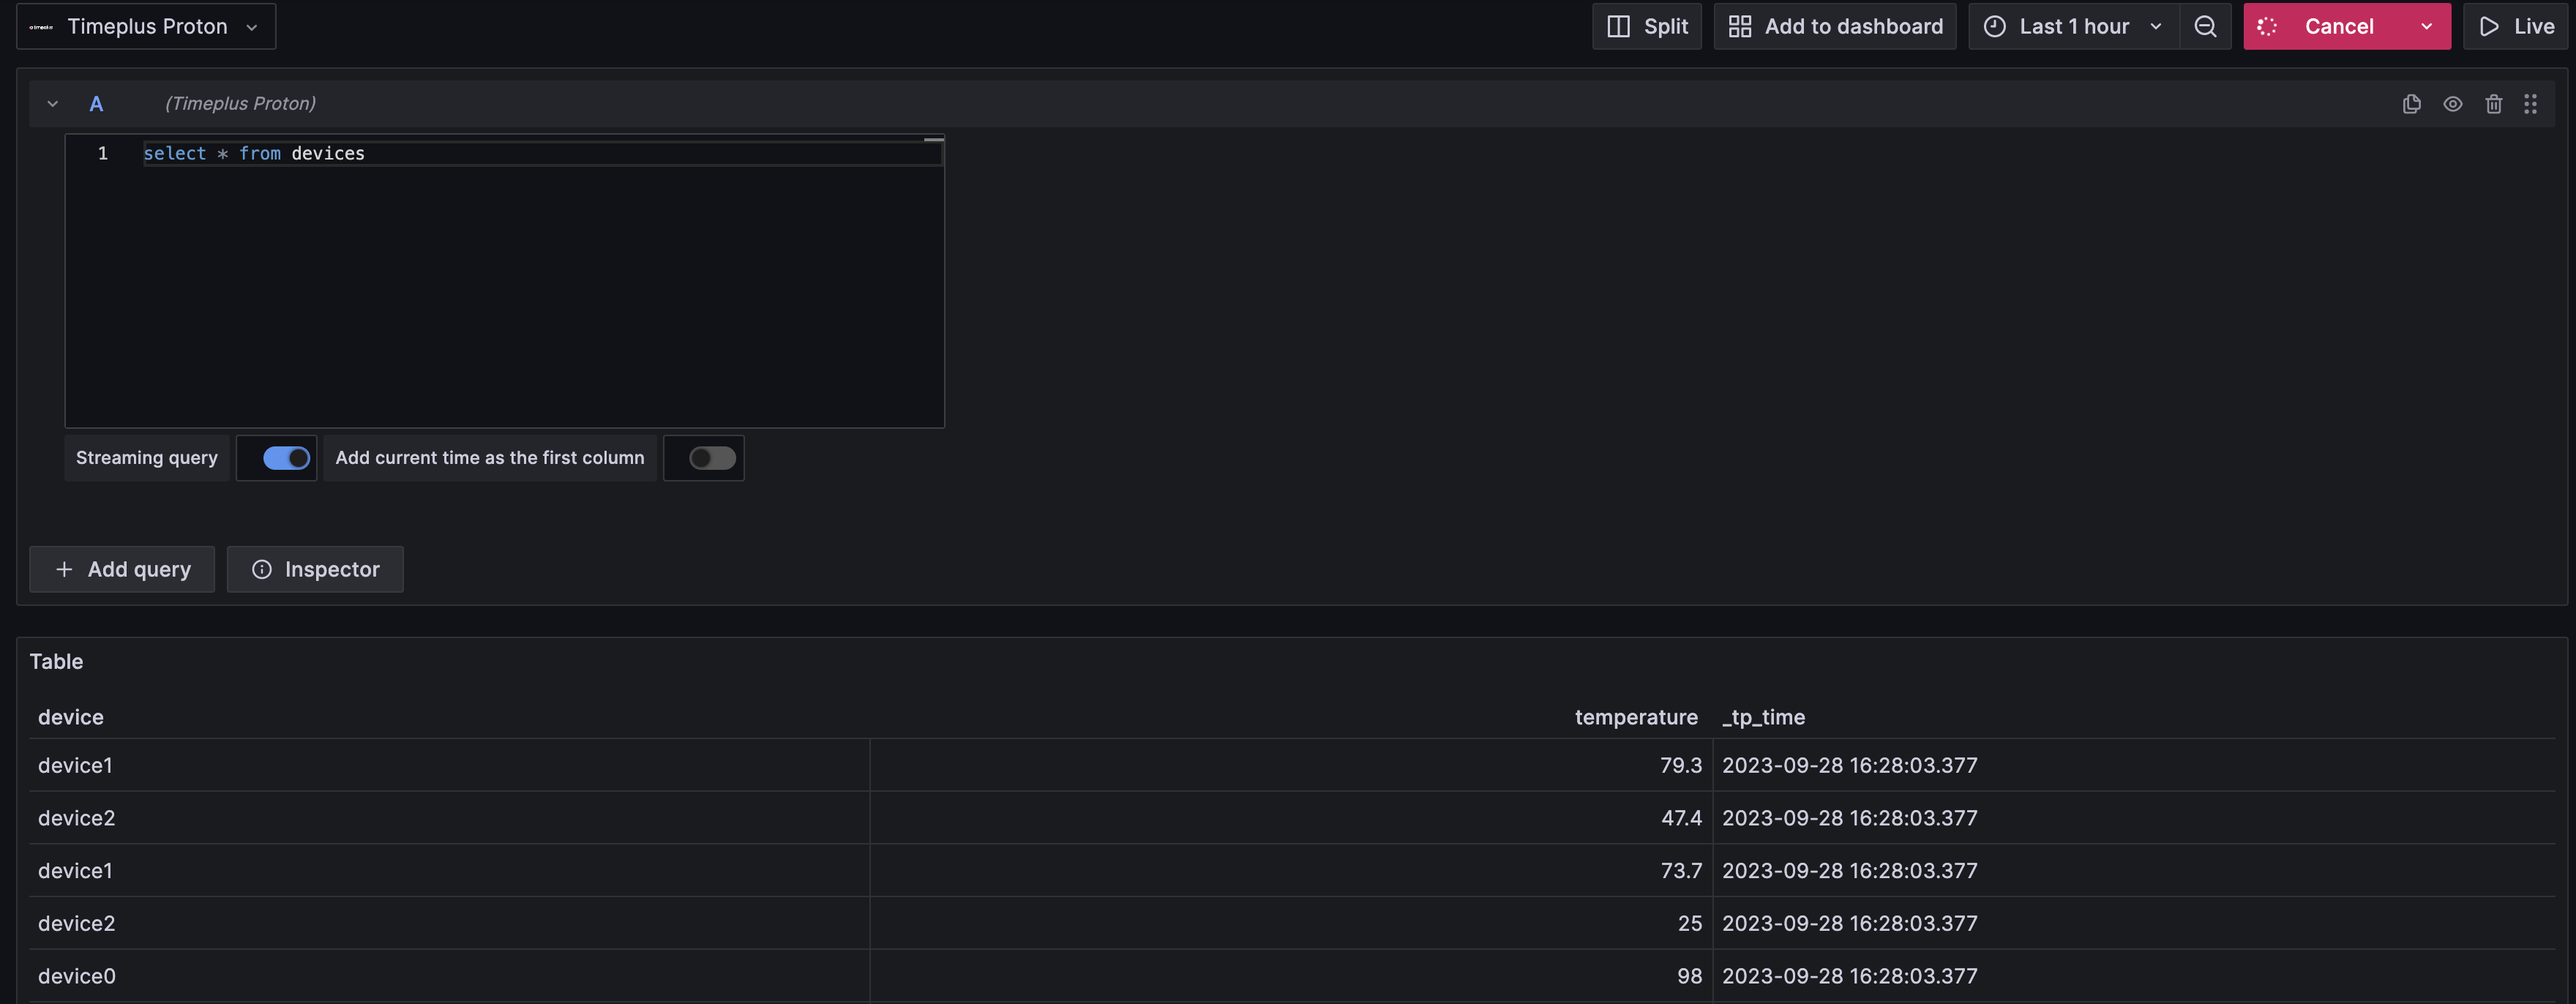
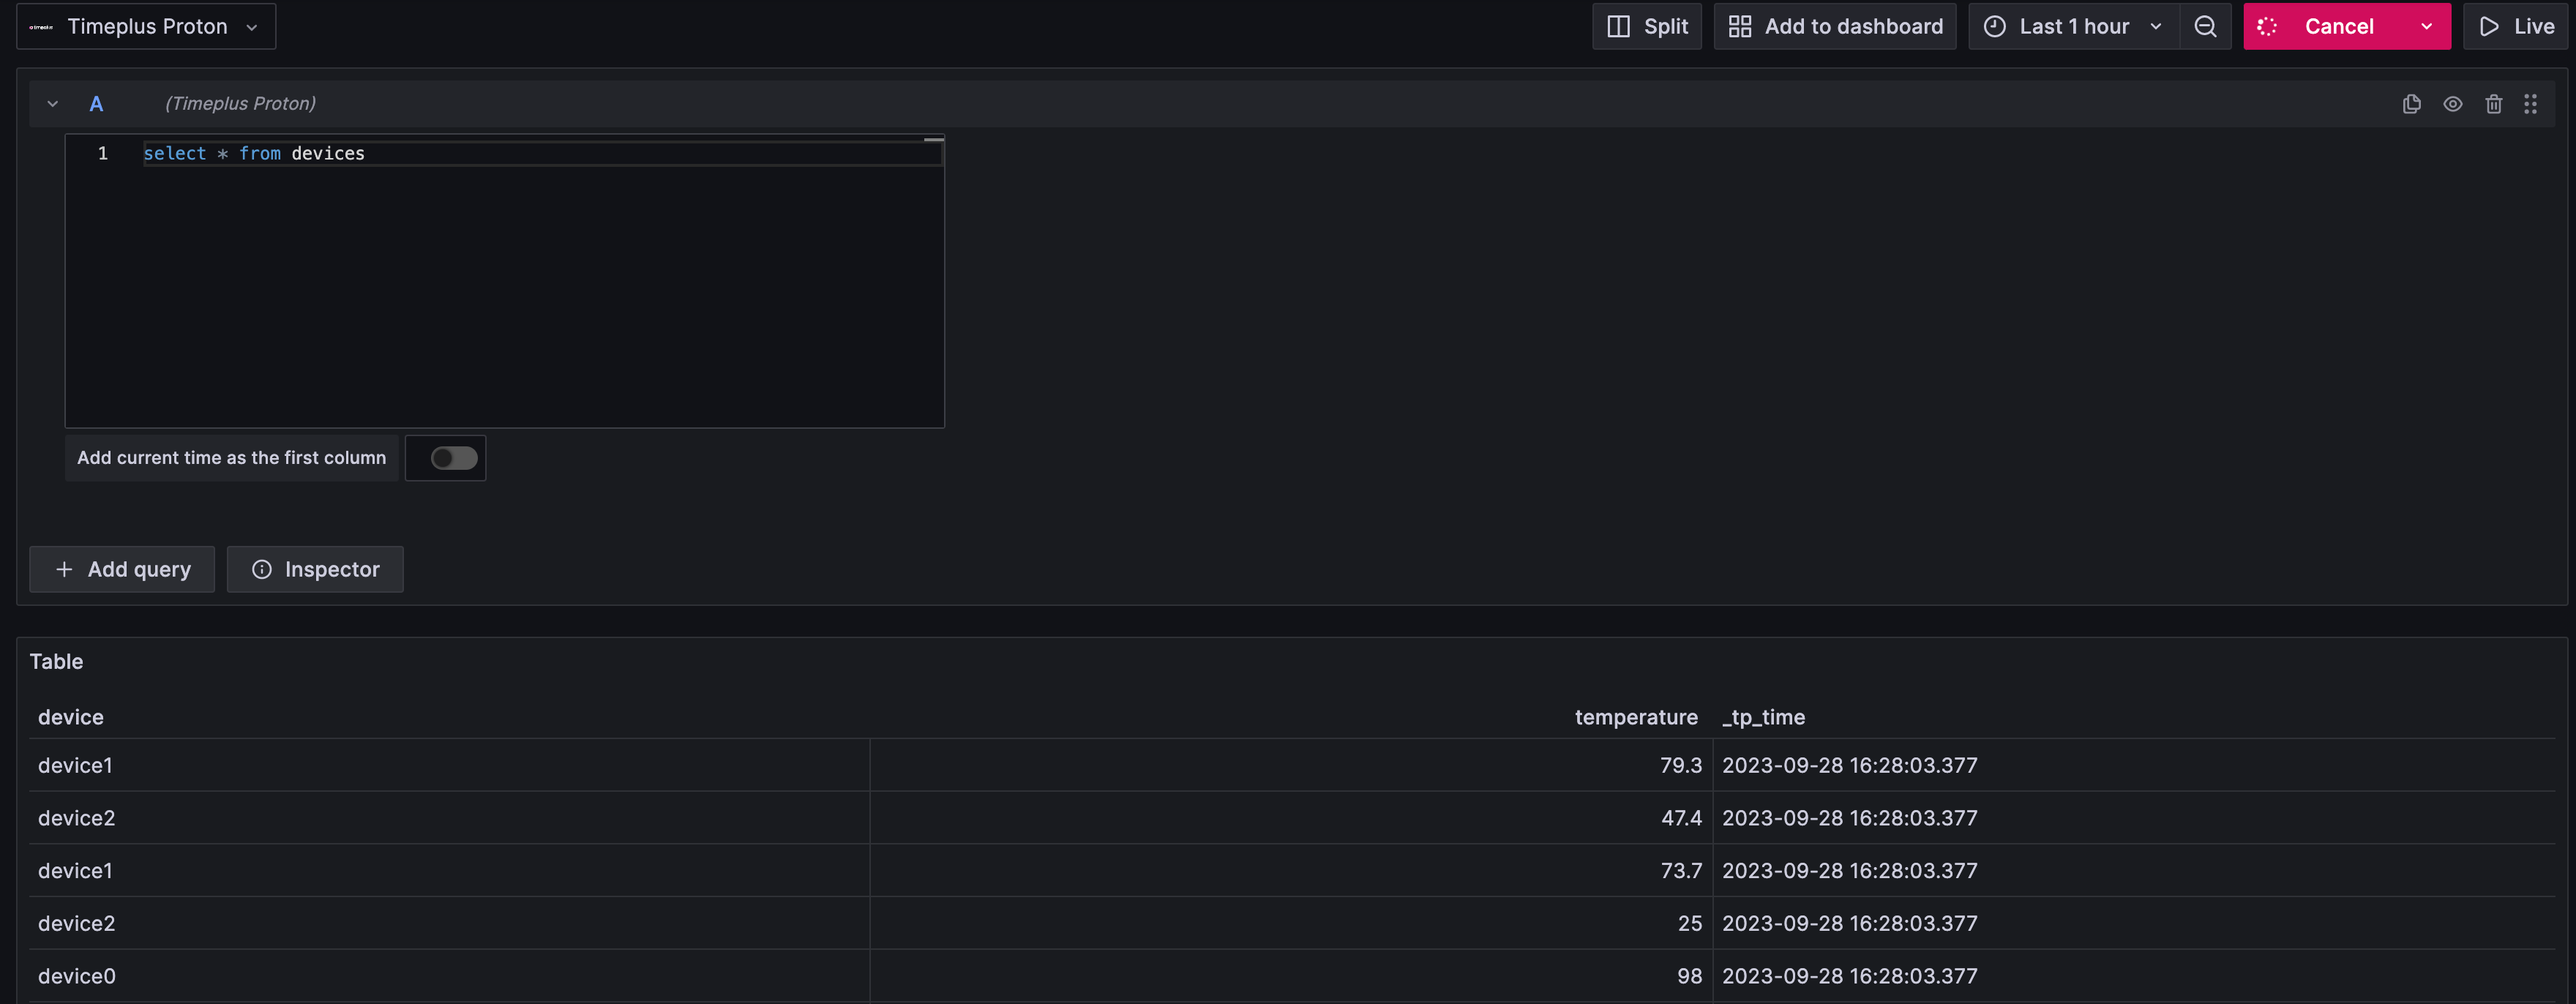
final touch, updates README/docker etc

Changed region(s): [[0.0312, 0.4286, 0.2812, 0.4898], [0.8438, 0.0, 0.9688, 0.0612]]

diff --git a/README.md b/README.md
@@ -16,7 +16,7 @@ https://github.com/timeplus-io/proton
 ### Use the pre-built Docker Compose
 The [docker-compose.yaml](docker-compose.yaml) in this folder ships a Grafana container, with the proton plugin pre-installed, as well as a data generator.
 
-You start it with `docker compose up` and go to http://localhost:3000 to add a new data source for Proton, using `proton` as the hostname.
+You start it with `docker compose up` and go to http://localhost:3000 to add a new data source for Proton, using `proton` as the hostname (because the Grafana container is running in the Docker Compose network. `proton` is the internal hostname for Proton database.)
 Then create a new dashboard by copying the content of [carsharing_grafana_dashboard.json](carsharing_grafana_dashboard.json) in the dashboard JSON model.
 
 ### Use your own Grafana deployment
@@ -25,13 +25,11 @@ Before the plugin is approved by Grafana, you need to set your Grafana running i
 
 In the navigation menu, choose Connections -> Add new connection.
 
-Search for Proton and accept the default settings (localhost:8463 as proton connection)
+Search for Proton and accept the default settings (localhost:8463 as proton connection). This plugin is expected to run in localhost or trusted network. Username and password for Proton will be added later. For Timeplus Cloud, API Key is supported for REST API, but this Grafana plugin doesn't support Timeplus Cloud at this point.
 
 Create a new dashboard or explore data with this Proton data source.
 
-There are unbounded streaming query and bounded historical query in proton, all queries like `select * from stream_name` are default to streaming query, and adding `table` function to the stream name will turn the query into bounded query.
-
-By default, the "Streaming Query" toggle is off. If your SQL is a streaming SQL, make sure to turn it on to leverage Grafana's live chart to show the new results.
+There are unbounded streaming query and bounded historical query in proton, all queries like `select count(*) from stream_name` are streaming queries, and adding `table` function to the stream name will turn the query into bounded query, e.g. `select count(*) from table(stream_name)`.
 
 ![query editor](src/img/query.png)
 
@@ -81,45 +79,16 @@ By default, the "Streaming Query" toggle is off. If your SQL is a streaming SQL,
    npm run build
    ```
 
-# Distributing your plugin
+4. Sign the plugin
+   ```bash
+   export GRAFANA_ACCESS_POLICY_TOKEN=<YOUR_ACCESS_POLICY_TOKEN>
+   npm run sign
+   ```
 
-When distributing a Grafana plugin either within the community or privately the plugin must be signed so the Grafana application can verify its authenticity. This can be done with the `@grafana/sign-plugin` package.
-
-_Note: It's not necessary to sign a plugin during development. The docker development environment that is scaffolded with `@grafana/create-plugin` caters for running the plugin without a signature._
-
-## Initial steps
-
-Before signing a plugin please read the Grafana [plugin publishing and signing criteria](https://grafana.com/developers/plugin-tools/publish-a-plugin/publishing-and-signing-criteria) documentation carefully.
-
-`@grafana/create-plugin` has added the necessary commands and workflows to make signing and distributing a plugin via the grafana plugins catalog as straightforward as possible.
-
-Before signing a plugin for the first time please consult the Grafana [plugin signature levels](https://grafana.com/docs/grafana/latest/developers/plugins/sign-a-plugin/#plugin-signature-levels) documentation to understand the differences between the types of signature level.
-
-1. Create a [Grafana Cloud account](https://grafana.com/signup).
-2. Make sure that the first part of the plugin ID matches the slug of your Grafana Cloud account.
-   - _You can find the plugin ID in the `plugin.json` file inside your plugin directory. For example, if your account slug is `acmecorp`, you need to prefix the plugin ID with `acmecorp-`._
-3. Create a Grafana Cloud API key with the `PluginPublisher` role.
-4. Keep a record of this API key as it will be required for signing a plugin
-
-## Signing a plugin
-
-### Using Github actions release workflow
-
-If the plugin is using the github actions supplied with `@grafana/create-plugin` signing a plugin is included out of the box. The [release workflow](./.github/workflows/release.yml) can prepare everything to make submitting your plugin to Grafana as easy as possible. Before being able to sign the plugin however a secret needs adding to the Github repository.
-
-1. Please navigate to "settings > secrets > actions" within your repo to create secrets.
-2. Click "New repository secret"
-3. Name the secret "GRAFANA_API_KEY"
-4. Paste your Grafana Cloud API key in the Secret field
-5. Click "Add secret"
-
-#### Push a version tag
-
-To trigger the workflow we need to push a version tag to github. This can be achieved with the following steps:
-
-1. Run `npm version <major|minor|patch>`
-2. Run `git push origin main --follow-tags`
-
+4. Distribute the plugin
+   ```bash
+   make package
+   ```
 
 ## Learn more
 

diff --git a/CHANGELOG.md b/CHANGELOG.md
@@ -1,5 +1,17 @@
 # Changelog
 
+## 1.0.3
+
+Signed and approved by Grafana Inc. 
+
+Key changes:
+* No longer need to specify the query is streaming or not. Call Proton query analazyer (need port 3218 open)
+* Support for dashboard variables
+* Filter query if the SQL is empty or disabled
+* Enable Grafana Alerting
+
+Please note you need to enable both 8463 and 3218 ports from Timeplus Proton.
+
 ## 1.0.0 (Unreleased)
 
 Initial release.
